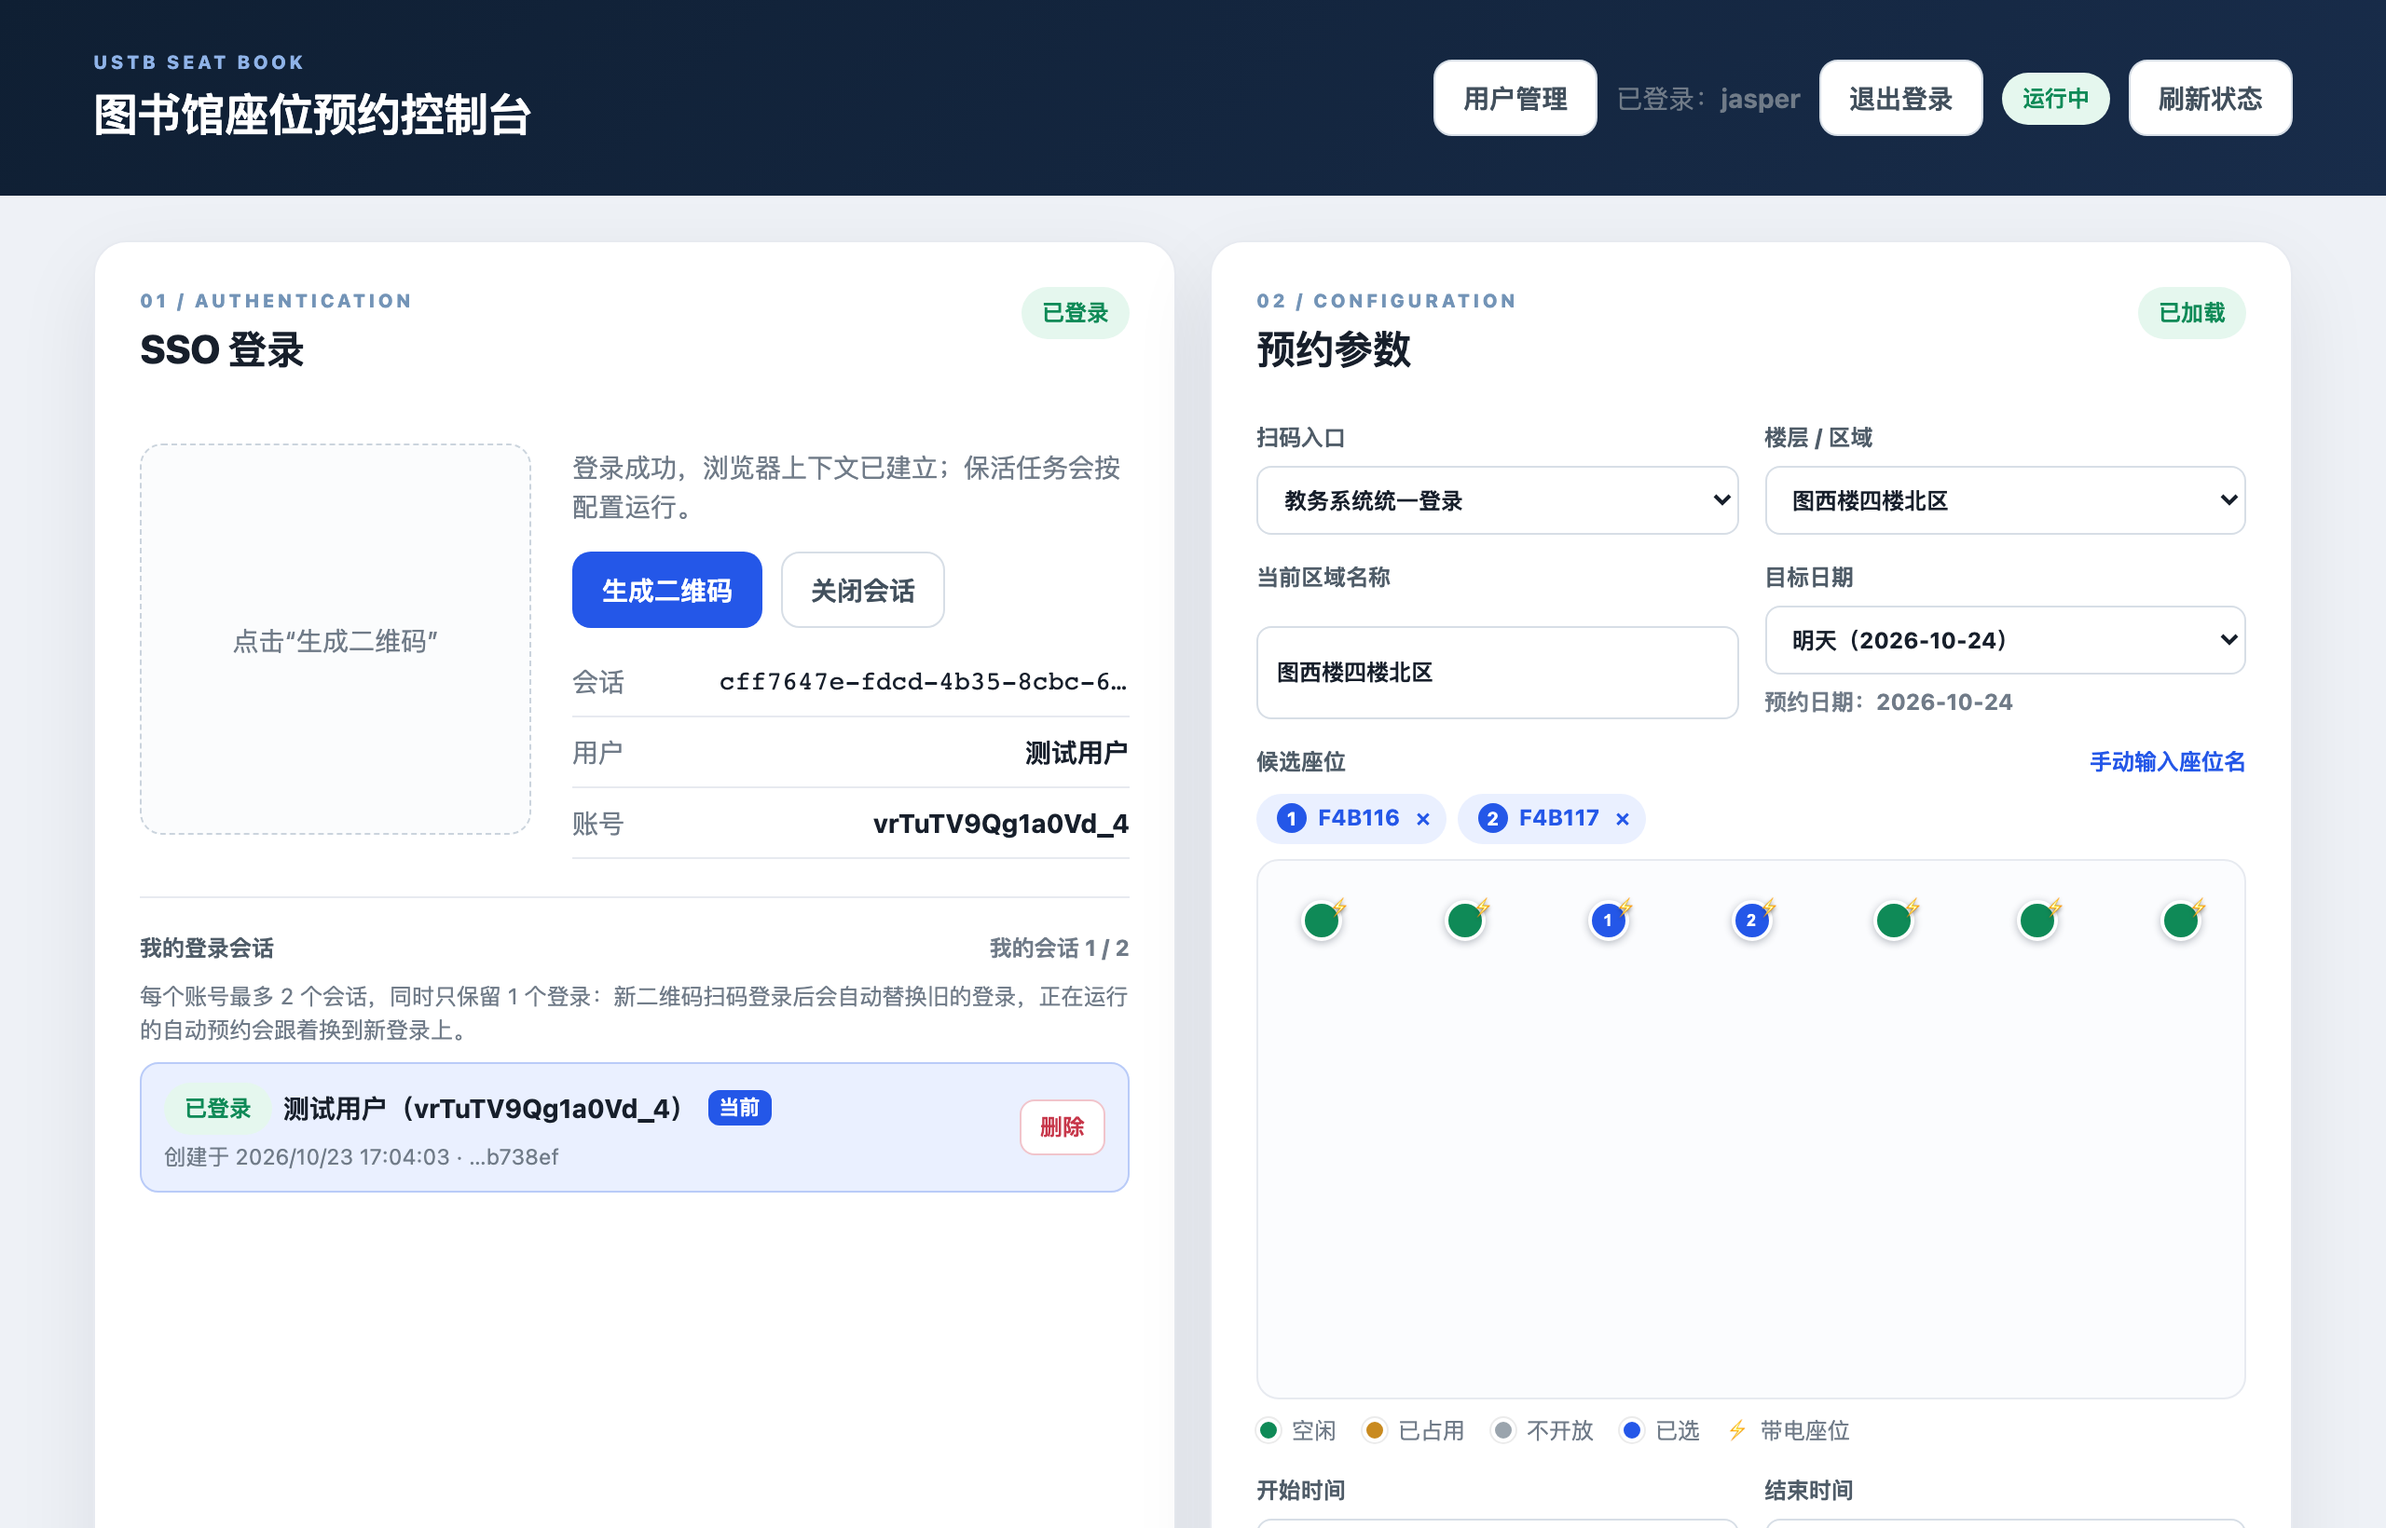
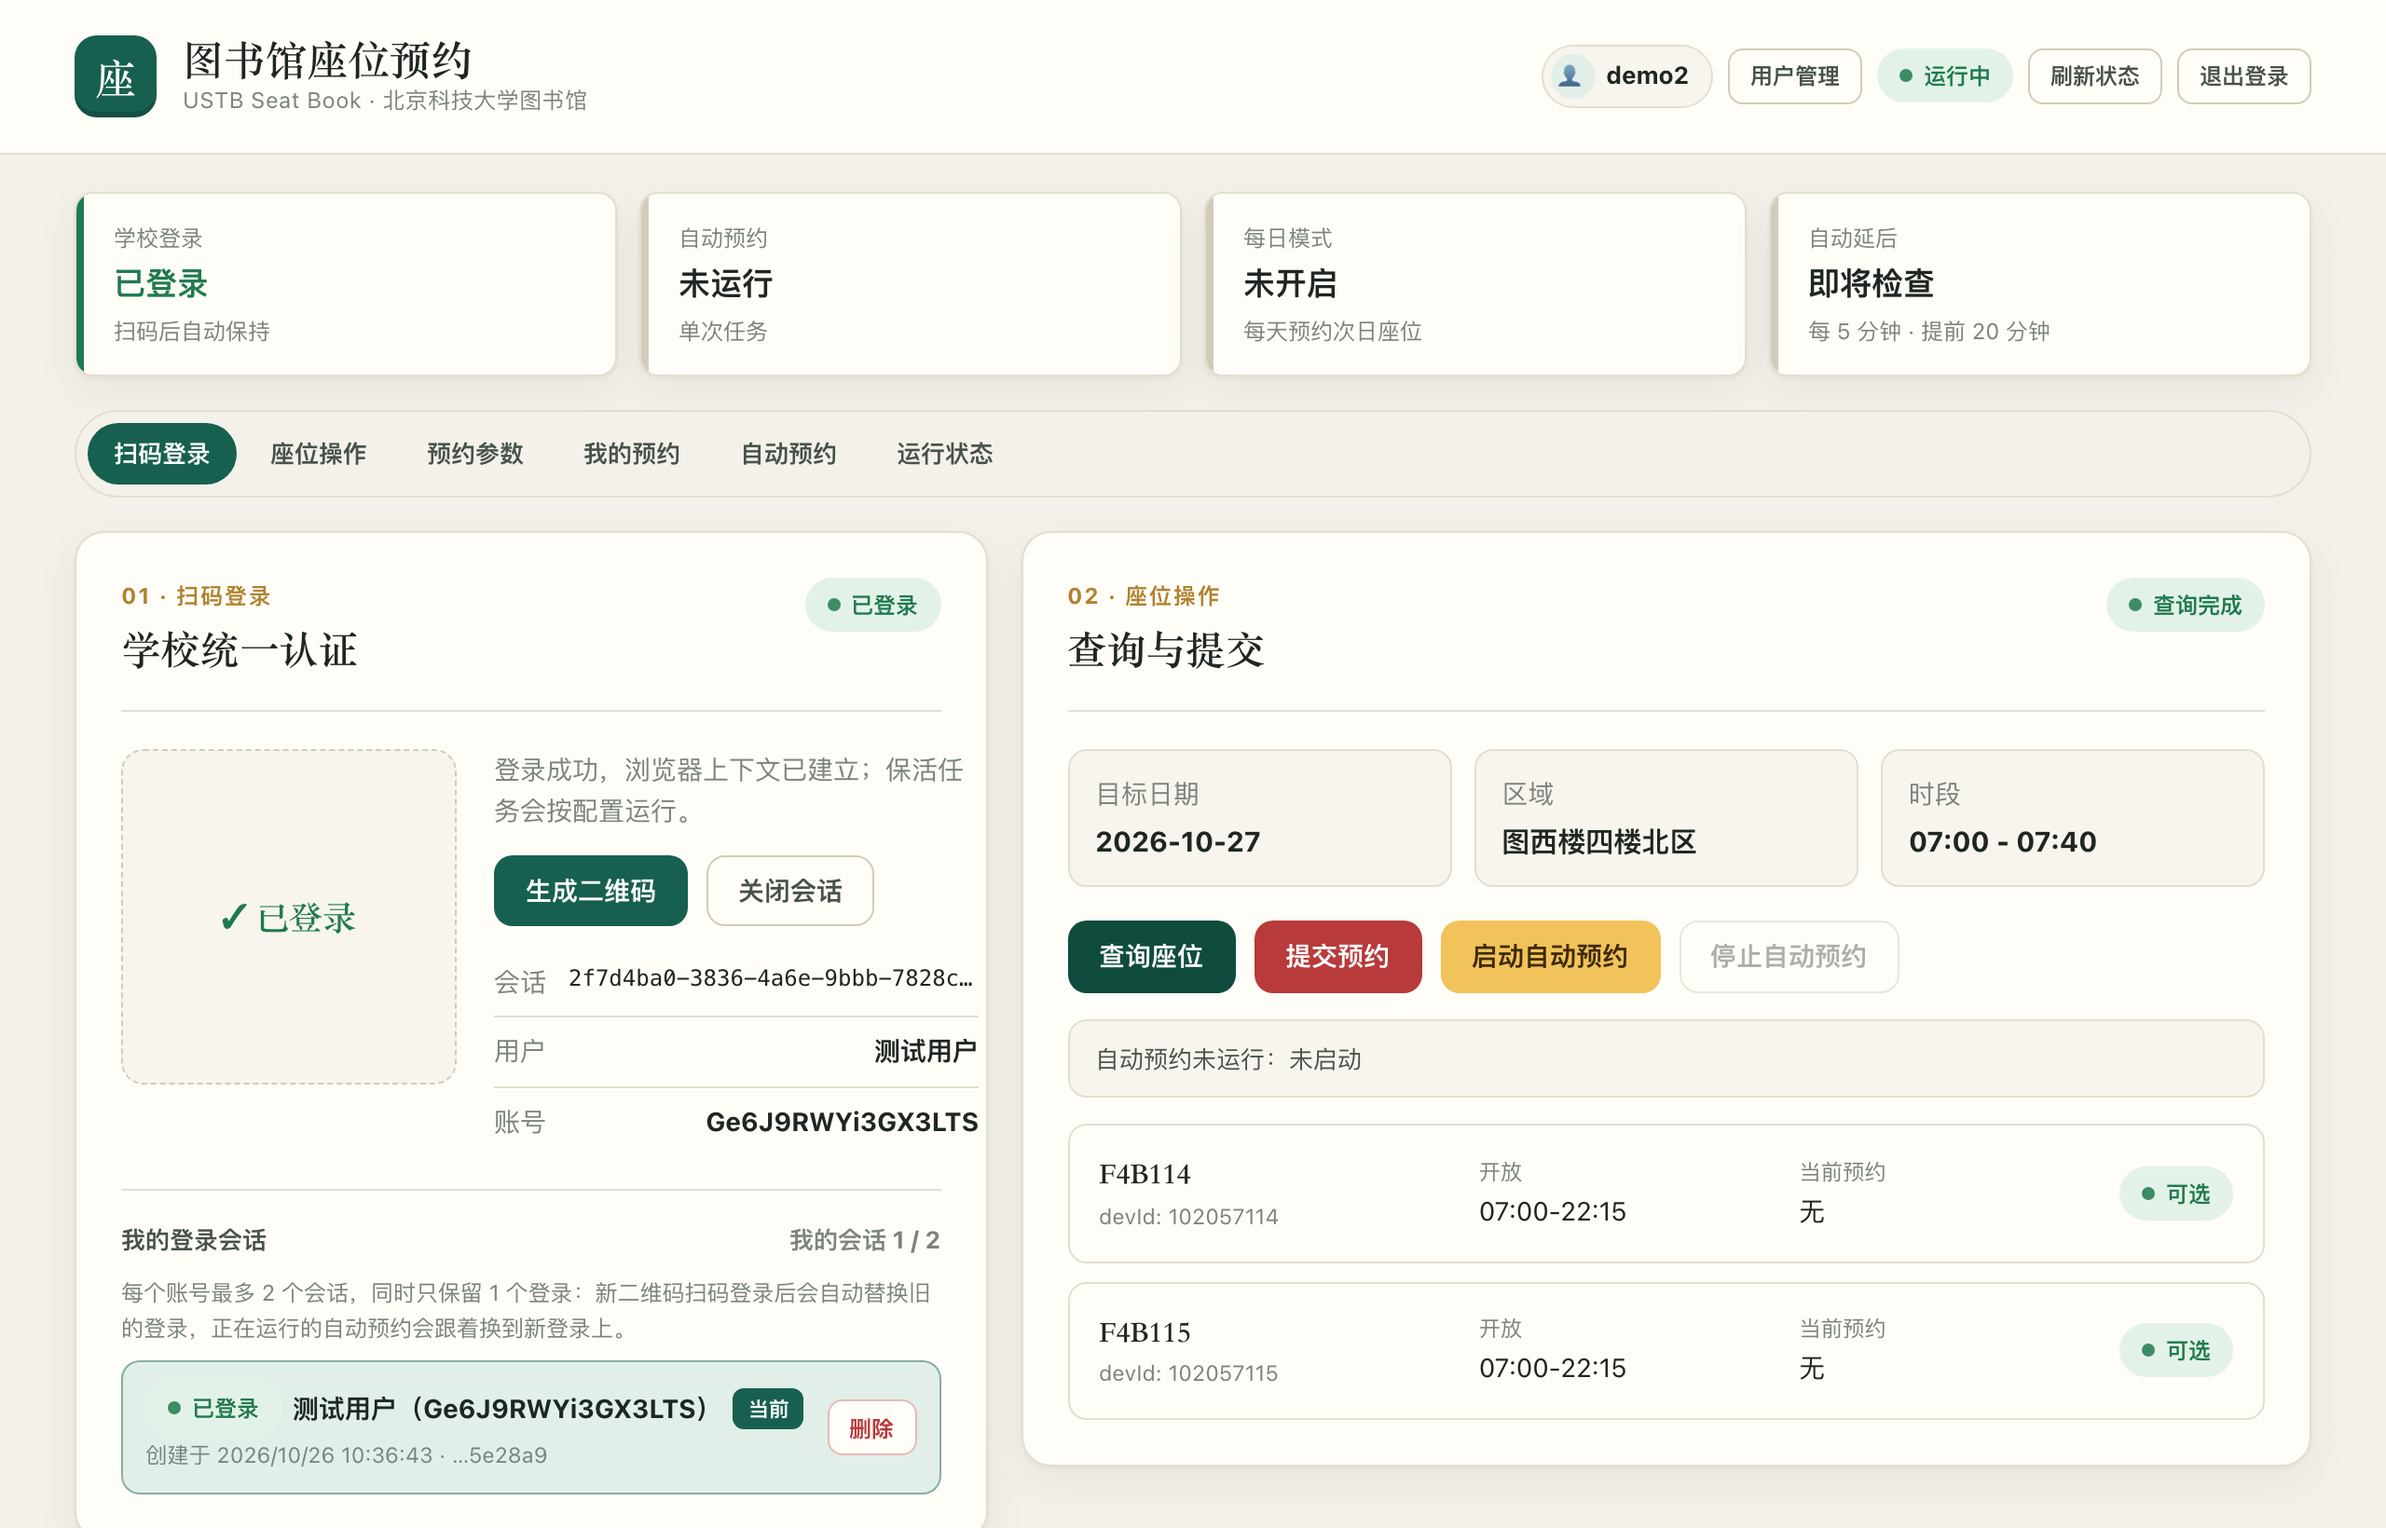
README: screenshots of the redesigned console

diff --git a/README.md b/README.md
@@ -76,7 +76,7 @@
 
 <table>
   <tr>
-    <td colspan="2"><img src="docs/images/console.png" alt="控制台：扫码登录与预约参数"></td>
+    <td colspan="2"><img src="docs/images/console.png" alt="控制台：状态总览、扫码登录与座位操作"></td>
   </tr>
   <tr>
     <td width="58%"><img src="docs/images/reservations.png" alt="我的预约：暂离与延后重约"></td>
